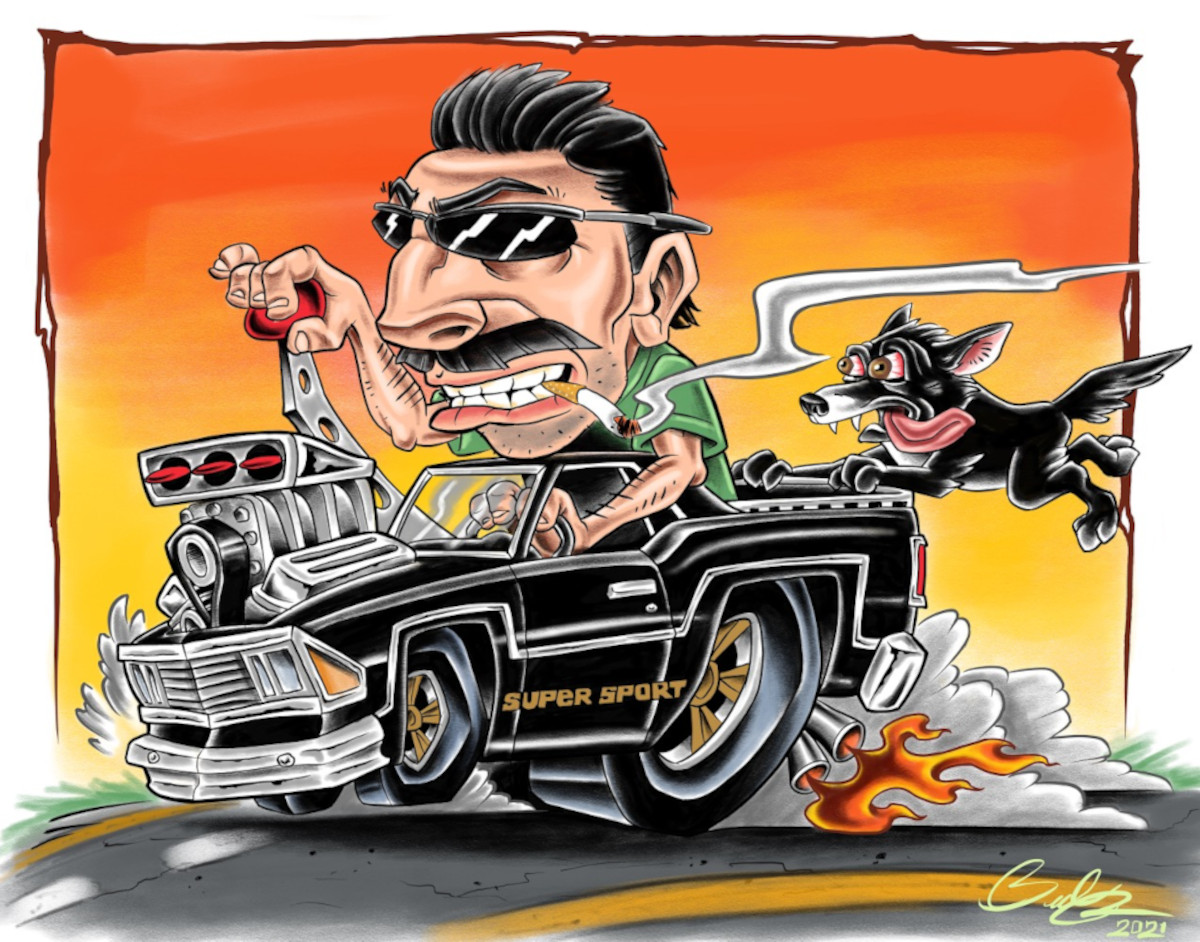
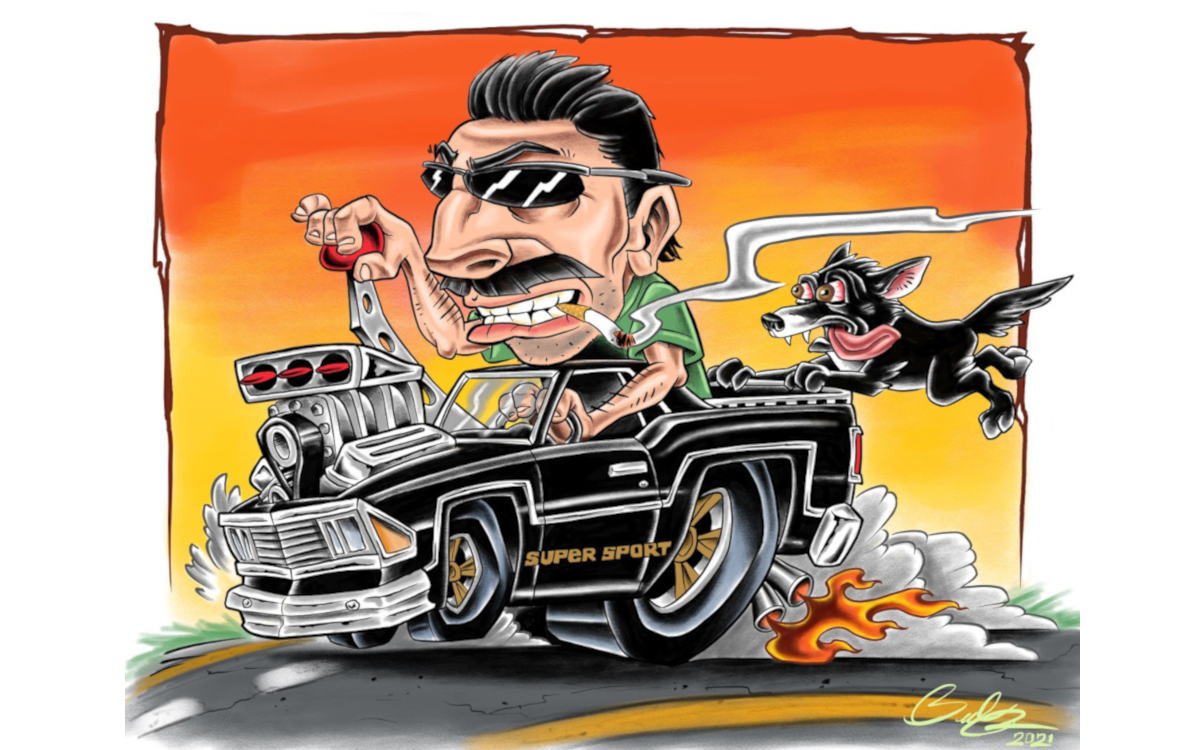
Resized a bunch of the pictures and modified the readme

diff --git a/lens/novels.html b/lens/novels.html
@@ -32,22 +32,22 @@
 				<!-- Thumbnail -->
 					<section id="thumbnails">
 						<article>
-							<a class="thumbnail" href="images/fulls/kidgrandad.jpg" data-position="left center"><img src="images/thumbs/kidgrandad.jpg" alt="" /></a>
+							<a class="thumbnail fixed" href="images/fulls/kidgrandad.jpg" data-position="left center"><img src="images/thumbs/kidgrandad.jpg" alt="" /></a>
 							<h2>Kid/Granddad</h2>
 							<p>Brad's comment here.</p>
 						</article>
 						<article>
-							<a class="thumbnail" href="images/fulls/snowman.jpg" data-position="left center"><img src="images/thumbs/snowman.jpg" alt="" /></a>
+							<a class="thumbnail fixed" href="images/fulls/snowman.jpg" data-position="left center"><img src="images/thumbs/snowman.jpg" alt="" /></a>
 							<h2>Snowman</h2>
 							<p>Brad's comment here.</p>
 						</article>
 						<article>
-							<a class="thumbnail" href="images/fulls/raptor.jpg" data-position="left center"><img src="images/thumbs/raptor.jpg" alt="" /></a>
+							<a class="thumbnail fixed" href="images/fulls/raptor.jpg" data-position="left center"><img src="images/thumbs/raptor.jpg" alt="" /></a>
 							<h2>Raptor</h2>
 							<p>Brad's comment here.</p>
 						</article>
 						<article>
-							<a class="thumbnail" href="images/fulls/oldcar.jpg" data-position="left center"><img src="images/thumbs/oldcar.jpg" alt="" /></a>
+							<a class="thumbnail fixed" href="images/fulls/oldcar.jpg" data-position="left center"><img src="images/thumbs/oldcar.jpg" alt="" /></a>
 							<h2>Car wtih Skull Crossbones</h2>
 							<p>Brad's comment here.</p>
 						</article>
@@ -56,7 +56,7 @@
 				<!-- Footer -->
 					<footer id="footer">
 						<ul class="copyright">
-							<li>&copy; Untitled.</li><li>Design: <a href="http://html5up.net">HTML5 UP</a>.</li>
+							<li>&copy; DyerIllustrations.</li><li>Design: <a href="http://html5up.net">HTML5 UP</a>.</li>
 						</ul>
 					</footer>
 

diff --git a/lens/logos.html b/lens/logos.html
@@ -32,17 +32,17 @@
 				<!-- Thumbnail -->
 					<section id="thumbnails">
 						<article>
-							<a class="thumbnail" href="images/fulls/devilchick.jpg" data-position="left center"><img src="images/thumbs/devilchick.jpg" alt="" /></a>
+							<a class="thumbnail fixed" href="images/fulls/devilchick.jpg" data-position="left center"><img src="images/thumbs/devilchick.jpg" alt="" /></a>
 							<h2>Devil Chick</h2>
 							<p>Brad's comment here.</p>
 						</article>
 						<article>
-							<a class="thumbnail" href="images/fulls/motorcycledude.jpg" data-position="left center"><img src="images/thumbs/motorcycledude.jpg" alt="" /></a>
+							<a class="thumbnail fixed" href="images/fulls/motorcycledude.jpg" data-position="left center"><img src="images/thumbs/motorcycledude.jpg" alt="" /></a>
 							<h2>Car Dude</h2>
 							<p>Brad's comment here.</p>
 						</article>
 						<article>
-							<a class="thumbnail" href="images/fulls/samuraidudes.jpg" data-position="left center"><img src="images/thumbs/samuraidudes.jpg" alt="" /></a>
+							<a class="thumbnail fixed" href="images/fulls/samuraidudes.jpg" data-position="left center"><img src="images/thumbs/samuraidudes.jpg" alt="" /></a>
 							<h2>Samurai Dudes</h2>
 							<p>Brad's comment here.</p>
                         </article>
@@ -51,7 +51,7 @@
 				<!-- Footer -->
 					<footer id="footer">
 						<ul class="copyright">
-							<li>&copy; Untitled.</li><li>Design: <a href="http://html5up.net">HTML5 UP</a>.</li>
+							<li>&copy; DyerIllustrations.</li><li>Design: <a href="http://html5up.net">HTML5 UP</a>.</li>
 						</ul>
 					</footer>
 
